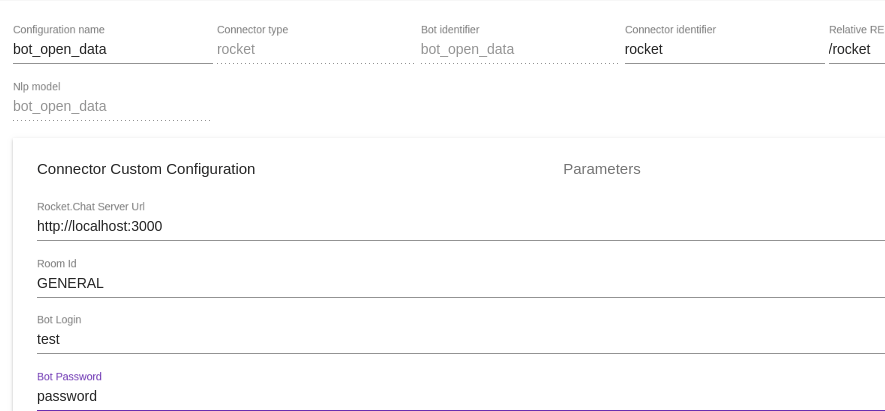
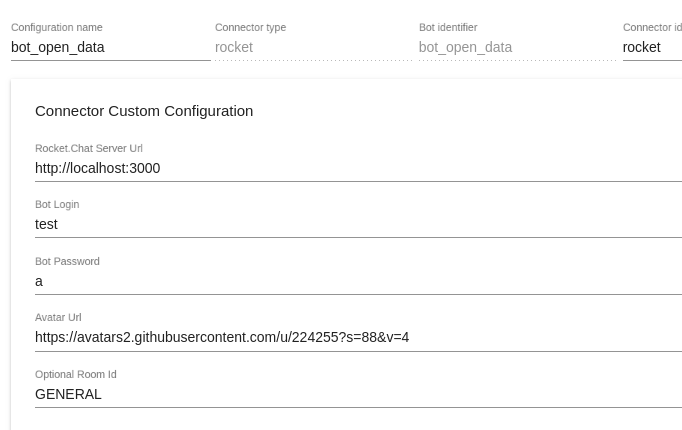
rocketchat: add optional room id

diff --git a/bot/connector-rocketchat/src/main/kotlin/RocketChatConnector.kt b/bot/connector-rocketchat/src/main/kotlin/RocketChatConnector.kt
@@ -17,9 +17,9 @@
 package fr.vsct.tock.bot.connector.rocketchat
 
 import chat.rocket.common.model.RoomType
-import chat.rocket.common.model.roomTypeOf
 import fr.vsct.tock.bot.connector.ConnectorBase
 import fr.vsct.tock.bot.connector.ConnectorCallback
+import fr.vsct.tock.bot.connector.ConnectorData
 import fr.vsct.tock.bot.engine.BotRepository
 import fr.vsct.tock.bot.engine.ConnectorController
 import fr.vsct.tock.bot.engine.action.SendSentence
@@ -34,7 +34,8 @@ import mu.KotlinLogging
  */
 internal class RocketChatConnector(
     private val applicationId: String,
-    private val client: RocketChatClient
+    private val client: RocketChatClient,
+    private val roomId: String? = null
 ) : ConnectorBase(rocketChatConnectorType) {
 
     companion object {
@@ -42,9 +43,9 @@ internal class RocketChatConnector(
     }
 
     override fun register(controller: ConnectorController) {
-        client.join { room ->
+        client.join(roomId) { room ->
             logger.debug { "listening room event: $room" }
-            if (room.type.toString() != RoomType.LIVECHAT) {
+            if (room.type.toString() != RoomType.LIVECHAT && room.id != roomId) {
                 logger.debug { "Do not reply to messages in non-livechat rooms" }
             } else if (room.lastMessage?.sender == null) {
                 logger.warn { "no message for $room - skip" }
@@ -52,15 +53,16 @@ internal class RocketChatConnector(
                 logger.debug { "do not reply to bot messages $room because client login is the same than sender: ${client.login}" }
             } else {
                 val requestTimerData = BotRepository.requestTimer.start("rocketchat_webhook")
-                logger.debug { "patate : $room.id -- ${room.lastMessage!!.roomId!!}" }
+                logger.debug { "message handled : ${room.lastMessage}" }
                 try {
                     controller.handle(
                         SendSentence(
                             PlayerId(room.lastMessage!!.sender!!.id!!),
                             applicationId,
-                            PlayerId("bot:"+room.id, PlayerType.bot),
+                            PlayerId(applicationId, PlayerType.bot),
                             room.lastMessage!!.message
-                        )
+                        ),
+                        ConnectorData(RocketChatConnectorCallback(applicationId, room.id))
                     )
                 } catch (e: Throwable) {
                     logger.error(e)
@@ -77,8 +79,8 @@ internal class RocketChatConnector(
 
     override fun send(event: Event, callback: ConnectorCallback, delayInMs: Long) {
         if (event is SendSentence && event.text != null) {
-            val thisRoomId = event.playerId.id.substring(4)
-            client.send(thisRoomId, event.stringText!!)
+            val roomId = (callback as RocketChatConnectorCallback).roomId
+            client.send(roomId, event.stringText!!)
         }
     }
 }

diff --git a/bot/connector-rocketchat/src/main/kotlin/RocketChatConnectorProvider.kt b/bot/connector-rocketchat/src/main/kotlin/RocketChatConnectorProvider.kt
@@ -33,6 +33,7 @@ internal object RocketChatConnectorProvider : ConnectorProvider {
     private const val LOGIN = "_login_"
     private const val PASSWORD = "_password_"
     private const val AVATAR = "_avatar_"
+    private const val DEDICATED_ROOM_ID = "_dedicated_room_id_"
 
     override val connectorType: ConnectorType get() = rocketChatConnectorType
 
@@ -45,7 +46,8 @@ internal object RocketChatConnectorProvider : ConnectorProvider {
                     parameters.getValue(LOGIN),
                     parameters.getValue(PASSWORD),
                     parameters.getValue(AVATAR)
-                )
+                ),
+                parameters[DEDICATED_ROOM_ID]?.run { if (isBlank()) null else trim() }
             )
         }
     }
@@ -73,6 +75,11 @@ internal object RocketChatConnectorProvider : ConnectorProvider {
                     "Avatar Url",
                     AVATAR,
                     true
+                ),
+                ConnectorTypeConfigurationField(
+                    "Optional Room Id",
+                    DEDICATED_ROOM_ID,
+                    false
                 )
             ),
             resourceAsString("/rocketchat.svg")

diff --git a/bot/connector-rocketchat/src/main/kotlin/RocketChatClient.kt b/bot/connector-rocketchat/src/main/kotlin/RocketChatClient.kt
@@ -23,7 +23,6 @@ import chat.rocket.core.TokenRepository
 import chat.rocket.core.internal.realtime.socket.connect
 import chat.rocket.core.internal.realtime.socket.model.State
 import chat.rocket.core.internal.realtime.subscribeRooms
-import chat.rocket.core.internal.rest.getInfo
 import chat.rocket.core.internal.rest.joinChat
 import chat.rocket.core.internal.rest.login
 import chat.rocket.core.internal.rest.sendMessage
@@ -96,7 +95,7 @@ internal class RocketChatClient(
         }
     }
 
-    fun join(listener: (Room) -> Unit) {
+    fun join(roomId:String?, listener: (Room) -> Unit) {
         val job = launch(CommonPool) {
             try {
                 logger.debug { "Try to connect $login" }
@@ -127,6 +126,10 @@ internal class RocketChatClient(
                 }
 
                 client.connect()
+
+                if(roomId != null) {
+                    client.joinChat(roomId)
+                }
             } catch (e: Exception) {
                 logger.error(e)
             }

diff --git a/bot/connector-rocketchat/src/main/kotlin/RocketChatConnectorCallback.kt b/bot/connector-rocketchat/src/main/kotlin/RocketChatConnectorCallback.kt
@@ -1,0 +1,28 @@
+/*
+ * Copyright (C) 2017 VSCT
+ *
+ * Licensed under the Apache License, Version 2.0 (the "License");
+ * you may not use this file except in compliance with the License.
+ * You may obtain a copy of the License at
+ *
+ * http://www.apache.org/licenses/LICENSE-2.0
+ *
+ *  Unless required by applicable law or agreed to in writing, software
+ * distributed under the License is distributed on an "AS IS" BASIS,
+ *  WITHOUT WARRANTIES OR CONDITIONS OF ANY KIND, either express or implied.
+ * See the License for the specific language governing permissions and
+ * limitations under the License.
+ */
+
+package fr.vsct.tock.bot.connector.rocketchat
+
+import fr.vsct.tock.bot.connector.ConnectorCallbackBase
+
+/**
+ *
+ */
+internal class RocketChatConnectorCallback(
+    applicationId: String,
+    val roomId:String
+) : ConnectorCallbackBase(applicationId, rocketChatConnectorType) {
+}

diff --git a/bot/connector-rocketchat/README.md b/bot/connector-rocketchat/README.md
@@ -16,6 +16,8 @@ So you can't mutualize the Mongo instances and you need to change the Tock Mongo
 
  ![RocketChat Bot Configuration Sample](./admin.png)
  
+If you don't set room id parameter, the bot will be available only on the live chat.
+ 
 You can start to talk to the Bot!
 
  ![RocketChat Bot Talk Sample](./rocketchat.png)
